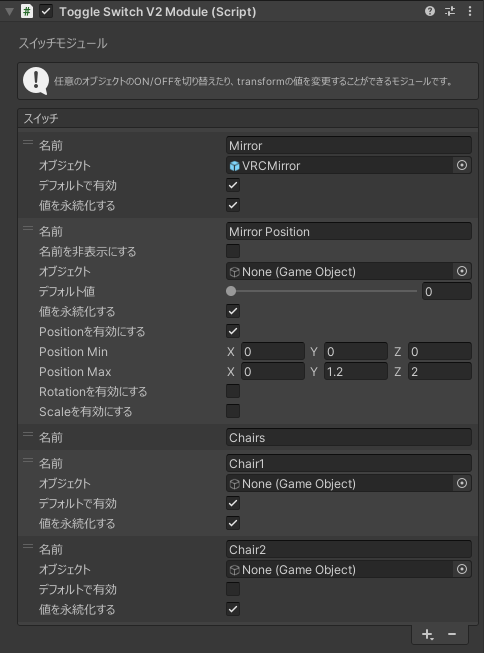
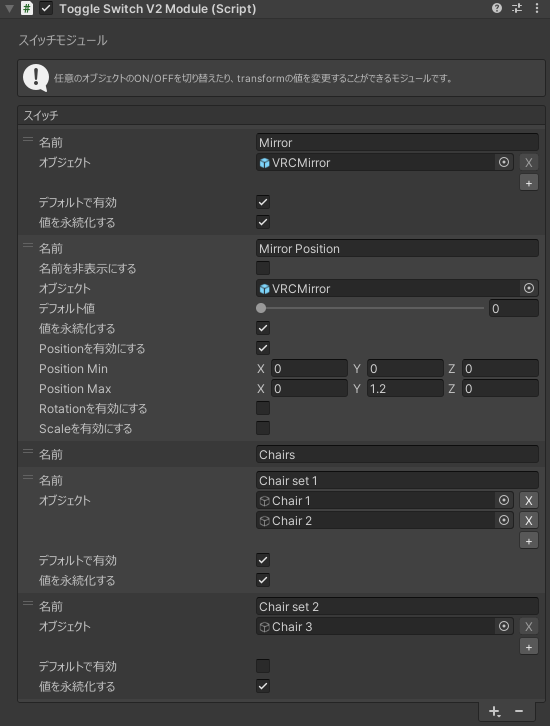
docs: ドキュメントを更新

diff --git a/pages/docs/wim-modules/settings/switch.md b/pages/docs/wim-modules/settings/switch.md
@@ -9,7 +9,7 @@ title: スイッチモジュール
 スイッチモジュール右下の「+」からセクション、スイッチ、トランスフォームを追加することができます。  
 ![alt text](images/switch/add.png)
 
-::: tip
+::: info
 「トランスフォームを追加」がない場合は、[レガシー版からの移行方法](#migrate-v2)に従って、新しいスイッチモジュールに移行してください。
 :::
 
@@ -25,6 +25,12 @@ title: スイッチモジュール
 
 #### オブジェクト
 有効/無効を切り替えるオブジェクトを設定します。
+
+::: tip
+オブジェクト設定欄の真下にある「+」を押すことで切り替えるオブジェクトを追加することができます。  
+追加したオブジェクトは設定欄の右側にある「X」を押すことで削除することができます。  
+![alt text](images/switch/add-object.png)
+:::
 
 #### デフォルトで有効
 初期状態でオブジェクトを有効にするかどうかを設定します。

diff --git a/pages/docs/wim-core/changelog.md b/pages/docs/wim-core/changelog.md
@@ -4,6 +4,10 @@ title: 更新履歴
 
 # 更新履歴
 
+## v1.2.3
+`2025/02/08`  
+- Enhance: リストでアイテムを削除する時にShiftキーを押すことでダイアログをスキップして削除できるように  
+
 ## v1.2.2
 `2024/12/21`  
 - Enhance: デスクトップでオブジェクトを持っている場合はクイックメニューを開かないように

diff --git a/pages/docs/wim-modules/changelog/ext-vol1.md b/pages/docs/wim-modules/changelog/ext-vol1.md
@@ -4,6 +4,10 @@ title: WIM 拡張モジュール Vol.1 | 更新履歴
 
 # 更新履歴 (WIM 拡張モジュール Vol.1)
 
+## v1.3.0
+`2025/02/08`  
+- Feat: スイッチモジュールの「スイッチ」で複数のオブジェクトを指定できるように
+
 ## v1.2.0
 `2024/12/19`  
 - Feat: スイッチモジュールでTransformの値を操作できるように
